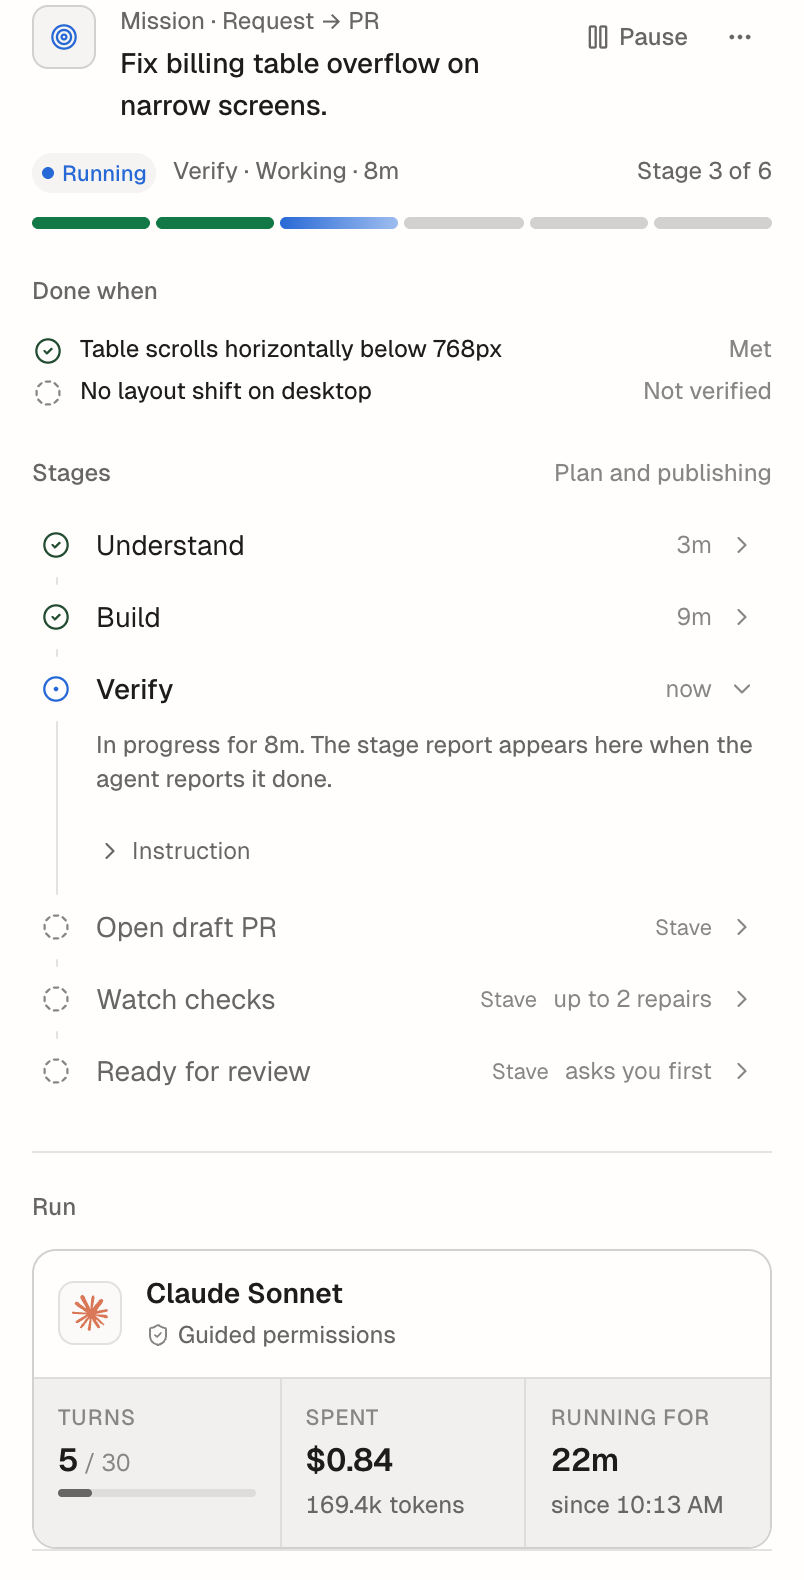
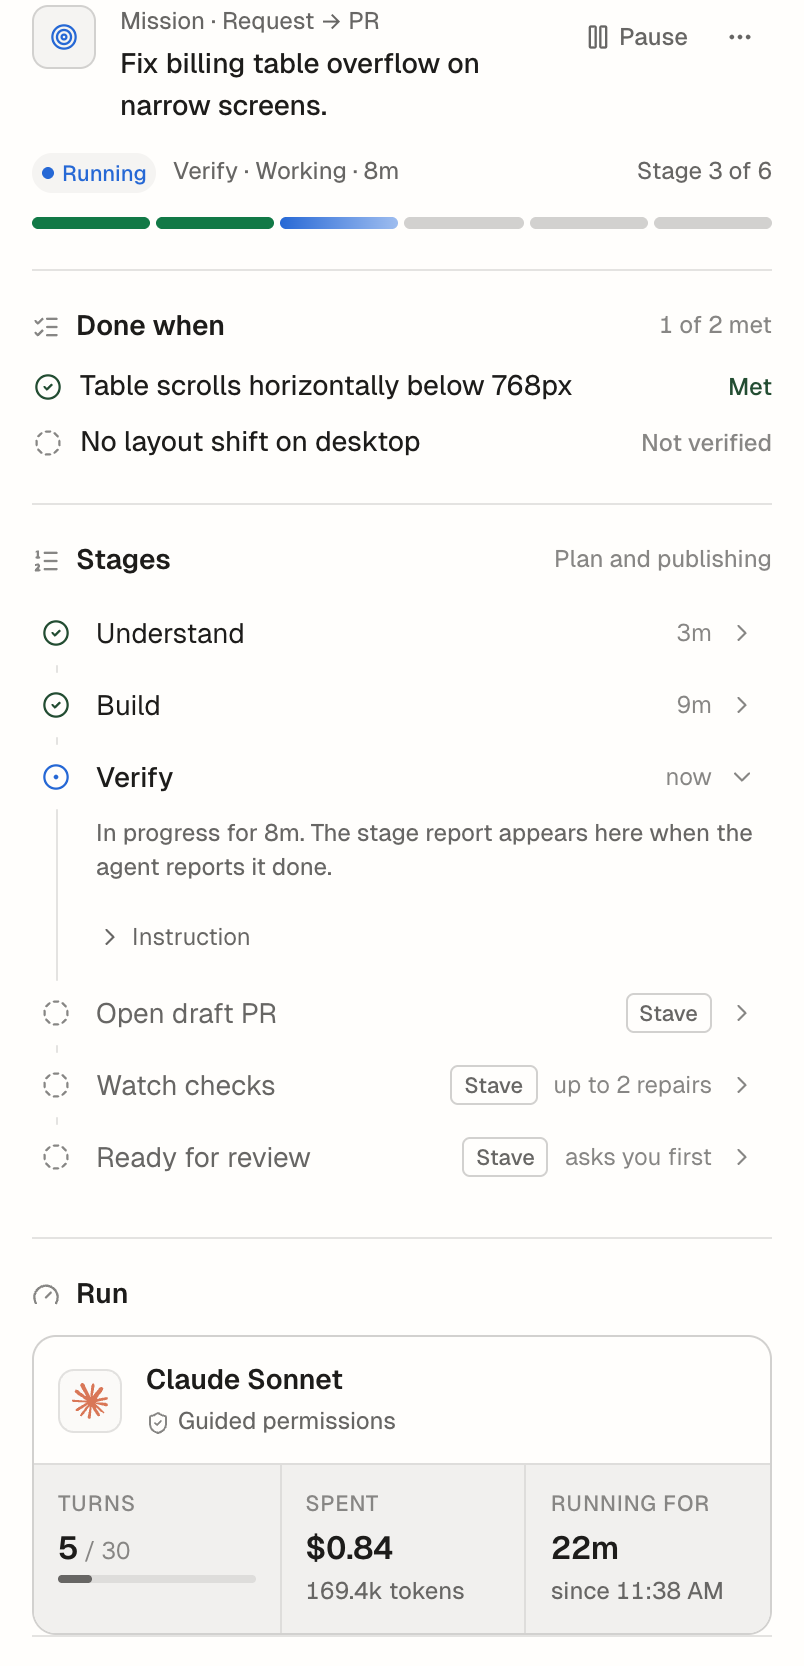
feat(missions): make the Mission panel's sections easier to scan
- Section headings (Done when, Stages, Report, Run, Wake-up) read as
  headings: an icon and a body-size semibold title in the text colour,
  with groups inside a section keeping the small uppercase label below.
  Every section is set off by the same rule.
- Done when says how many criteria are met, colours each status (met,
  not met, not verified) and uses body-size rows; a sign-off moves to a
  line under the list.
- Stages Stave performs itself carry a small Stave chip.
- The report's figures form one strip in the Run card's style, label above
  value, and in the panel leave turns and spend to the Run card, so they no
  longer spill onto a second row.
- Decisions are set off by a rule with the decision in medium weight, and
  what the mission left behind is a bulleted list.

diff --git a/src/components/missions/missions.styles.ts b/src/components/missions/missions.styles.ts
@@ -129,14 +129,17 @@ export const missionStyles = stylex.create({
     fontSize: vars["--ads-font-size-caption"],
     color: vars["--ads-color-text-muted"],
   },
+  // A section of the panel: a heading that reads as one, above its content.
+  // Groups inside a section use `groupLabel`, the small uppercase level below.
   sectionTitle: {
     flex: "1 1 auto",
     margin: 0,
-    fontSize: vars["--ads-font-size-caption"],
+    fontSize: vars["--ads-font-size-body"],
     lineHeight: vars["--ads-line-height-normal"],
-    fontWeight: vars["--ads-font-weight-medium"],
-    color: vars["--ads-color-text-muted"],
+    fontWeight: vars["--ads-font-weight-semibold"],
+    color: vars["--ads-color-text"],
   },
+  sectionIcon: { flex: "0 0 auto", width: 14, height: 14, color: vars["--ads-color-text-subtle"] },
   sectionAside: {
     flex: "0 0 auto",
     fontSize: vars["--ads-font-size-caption"],
@@ -145,18 +148,25 @@ export const missionStyles = stylex.create({
   },
 
   /* Checklist (Done when) -------------------------------------------------- */
+  checkList: { display: "flex", flexDirection: "column", gap: vars["--ads-space-8"], margin: 0, padding: 0, listStyle: "none" },
   check: {
     display: "grid",
     gridTemplateColumns: "16px minmax(0, 1fr) auto",
     alignItems: "baseline",
     columnGap: vars["--ads-space-8"],
-    fontSize: vars["--ads-font-size-caption"],
+    fontSize: vars["--ads-font-size-body"],
     lineHeight: vars["--ads-line-height-normal"],
     color: vars["--ads-color-text"],
   },
   checkMark: { alignSelf: "center", display: "flex", width: 16, justifyContent: "center" },
   checkText: { minWidth: 0, overflowWrap: "anywhere" },
-  checkState: { color: vars["--ads-color-text-subtle"], whiteSpace: "nowrap" },
+  checkState: {
+    fontSize: vars["--ads-font-size-caption"],
+    fontWeight: vars["--ads-font-weight-medium"],
+    color: vars["--ads-color-text-subtle"],
+    whiteSpace: "nowrap",
+  },
+  checkNote: { margin: 0, fontSize: vars["--ads-font-size-caption"], color: vars["--ads-color-text-subtle"] },
 
   /* Facts (key/value) ------------------------------------------------------ */
   facts: {
@@ -192,10 +202,18 @@ export const missionStyles = stylex.create({
   },
   stageTitleCurrent: { fontWeight: vars["--ads-font-weight-medium"] },
   stageTitlePending: { color: vars["--ads-color-text-muted"] },
+  // Marks a stage Stave performs itself, so it reads apart from the agent's.
   stageKind: {
     flex: "0 0 auto",
+    paddingInline: 6,
+    borderRadius: vars["--ads-radius-mark"],
+    borderWidth: vars["--ads-border-width-hairline"],
+    borderStyle: "solid",
+    borderColor: vars["--ads-color-border"],
     fontSize: vars["--ads-font-size-micro"],
-    color: vars["--ads-color-text-subtle"],
+    fontWeight: vars["--ads-font-weight-medium"],
+    lineHeight: "18px",
+    color: vars["--ads-color-text-muted"],
   },
   stageMeta: {
     flex: "0 0 auto",
@@ -224,7 +242,7 @@ export const missionStyles = stylex.create({
     paddingBottom: vars["--ads-space-4"],
     minWidth: 0,
   },
-  stageGroup: { display: "flex", flexDirection: "column", gap: vars["--ads-space-4"], minWidth: 0 },
+  stageGroup: { display: "flex", flexDirection: "column", gap: vars["--ads-space-8"], minWidth: 0 },
   groupLabel: {
     margin: 0,
     fontSize: vars["--ads-font-size-micro"],
@@ -258,8 +276,39 @@ export const missionStyles = stylex.create({
   },
   added: { color: vars["--ads-color-diff-added-text"] },
   removed: { color: vars["--ads-color-diff-removed-text"] },
-  decision: { display: "flex", flexDirection: "column", gap: 1, minWidth: 0 },
-  decisionText: { fontSize: vars["--ads-font-size-caption"], lineHeight: vars["--ads-line-height-normal"], color: vars["--ads-color-text"] },
+  itemList: { display: "flex", flexDirection: "column", gap: vars["--ads-space-8"], margin: 0, padding: 0, listStyle: "none" },
+  // A decision and its reason, set off by a rule so each reads as one item.
+  decision: {
+    display: "flex",
+    flexDirection: "column",
+    gap: 2,
+    minWidth: 0,
+    paddingInlineStart: vars["--ads-space-12"],
+    borderInlineStartWidth: 2,
+    borderInlineStartStyle: "solid",
+    borderInlineStartColor: vars["--ads-color-border"],
+  },
+  decisionText: {
+    fontSize: vars["--ads-font-size-body"],
+    fontWeight: vars["--ads-font-weight-medium"],
+    lineHeight: vars["--ads-line-height-normal"],
+    color: vars["--ads-color-text"],
+  },
+  bulletItem: { display: "grid", gridTemplateColumns: "12px minmax(0, 1fr)", alignItems: "baseline", minWidth: 0 },
+  bullet: {
+    width: 5,
+    height: 5,
+    borderRadius: 999,
+    backgroundColor: vars["--ads-color-text-subtle"],
+    transform: "translateY(-2px)",
+  },
+  bulletText: {
+    minWidth: 0,
+    overflowWrap: "anywhere",
+    fontSize: vars["--ads-font-size-body"],
+    lineHeight: vars["--ads-line-height-normal"],
+    color: vars["--ads-color-text"],
+  },
   decisionReason: { fontSize: vars["--ads-font-size-caption"], lineHeight: vars["--ads-line-height-normal"], color: vars["--ads-color-text-muted"] },
   disclosure: { minWidth: 0 },
   disclosureSummary: {
@@ -319,27 +368,50 @@ export const missionStyles = stylex.create({
     borderColor: vars["--ads-color-border"],
   },
   shareActions: { display: "flex", justifyContent: "flex-end", gap: vars["--ads-space-4"] },
+  // The report's figures, as one strip in the Run card's style: label above value.
   stats: {
     display: "grid",
     gridTemplateColumns: "repeat(auto-fit, minmax(4.5rem, 1fr))",
-    gap: vars["--ads-space-8"],
     margin: 0,
+    borderRadius: vars["--ads-radius-panel"],
+    borderWidth: vars["--ads-border-width-hairline"],
+    borderStyle: "solid",
+    borderColor: vars["--ads-color-border"],
+    backgroundColor: vars["--ads-color-canvas-subtle"],
+    overflow: "hidden",
   },
+  statsThree: { gridTemplateColumns: "repeat(3, minmax(0, 1fr))" },
+  statsFour: { gridTemplateColumns: "repeat(4, minmax(0, 1fr))" },
+  statsFive: { gridTemplateColumns: "repeat(5, minmax(0, 1fr))" },
   statTile: {
     display: "flex",
-    flexDirection: "column-reverse",
-    gap: 2,
-    paddingBlock: vars["--ads-space-8"],
+    flexDirection: "column",
+    gap: 4,
+    paddingBlock: vars["--ads-space-12"],
     paddingInline: vars["--ads-space-12"],
-    borderRadius: vars["--ads-radius-control"],
-    backgroundColor: vars["--ads-color-canvas-subtle"],
     minWidth: 0,
+    borderInlineStartWidth: { default: vars["--ads-border-width-hairline"], ":first-child": 0 },
+    borderInlineStartStyle: "solid",
+    borderInlineStartColor: vars["--ads-color-border-subtle"],
   },
-  statLabel: { fontSize: vars["--ads-font-size-micro"], color: vars["--ads-color-text-muted"] },
+  statLabel: {
+    overflow: "hidden",
+    textOverflow: "ellipsis",
+    whiteSpace: "nowrap",
+    fontSize: vars["--ads-font-size-micro"],
+    fontWeight: vars["--ads-font-weight-medium"],
+    letterSpacing: "0.04em",
+    textTransform: "uppercase",
+    color: vars["--ads-color-text-subtle"],
+  },
   statValue: {
     margin: 0,
-    fontSize: vars["--ads-font-size-body"],
-    fontWeight: vars["--ads-font-weight-medium"],
+    overflow: "hidden",
+    textOverflow: "ellipsis",
+    whiteSpace: "nowrap",
+    fontSize: vars["--ads-font-size-lead"],
+    fontWeight: vars["--ads-font-weight-semibold"],
+    lineHeight: 1.2,
     color: vars["--ads-color-text"],
     fontVariantNumeric: "tabular-nums",
   },

diff --git a/src/components/missions/MissionReportView.tsx b/src/components/missions/MissionReportView.tsx
@@ -8,6 +8,7 @@ import {
   CircleX,
   Copy,
   Ellipsis,
+  FileText,
   GitPullRequestArrow,
   Send,
 } from "lucide-react";
@@ -80,6 +81,14 @@ export function MissionReportView({
   const completedStages = report.stages.filter((stage) => stage.status === "completed").length;
   const duration = formatAge(Date.parse(report.endedAt) - Date.parse(report.startedAt));
   const spent = describeUsageShort(report.usage);
+  // In the Mission panel the Run card already shows turns and spend.
+  const figures: Array<readonly [string, string]> = [
+    ["Duration", duration],
+    ["Stages", `${completedStages}/${report.stages.length}`],
+    ...(standalone ? ([["Turns", String(report.turnCount)]] as const) : []),
+    ["Verified", String(verifiedCount)],
+    ...(standalone && spent ? ([["Spent", spent]] as const) : []),
+  ];
   return (
     <section
       className={sx(styles.section, styles.sectionRoomy, standalone ? null : styles.sectionRule)}
@@ -100,19 +109,21 @@ export function MissionReportView({
         </div>
       ) : (
         <div className={sx(styles.sectionHeader)}>
+          <FileText aria-hidden className={sx(styles.sectionIcon)} />
           <h3 className={sx(styles.sectionTitle)}>Report</h3>
         </div>
       )}
-      <dl className={sx(styles.stats)} aria-label="Mission figures">
-        {(
-          [
-            ["Duration", duration],
-            ["Stages", `${completedStages}/${report.stages.length}`],
-            ["Turns", String(report.turnCount)],
-            ["Verified", String(verifiedCount)],
-            ...(spent ? ([["Spent", spent]] as const) : []),
-          ] as const
-        ).map(([label, value]) => (
+      <dl
+        className={sx(
+          styles.stats,
+          // One row of figures, however many there are.
+          figures.length === 3 && styles.statsThree,
+          figures.length === 4 && styles.statsFour,
+          figures.length === 5 && styles.statsFive,
+        )}
+        aria-label="Mission figures"
+      >
+        {figures.map(([label, value]) => (
           <div key={label} className={sx(styles.statTile)}>
             <dt className={sx(styles.statLabel)}>{label}</dt>
             <dd className={sx(styles.statValue)}>{value}</dd>
@@ -137,7 +148,7 @@ export function MissionReportView({
       {decisions.length > 0 ? (
         <div className={sx(styles.stageGroup)}>
           <p className={sx(styles.groupLabel)}>Decisions</p>
-          <ul className={sx(styles.list)}>
+          <ul className={sx(styles.itemList)}>
             {decisions.map((item) => (
               <li key={item.decision} className={sx(styles.decision)}>
                 <span className={sx(styles.decisionText)}>{item.decision}</span>
@@ -168,10 +179,11 @@ export function MissionReportView({
       {report.leftBehind.length > 0 ? (
         <div className={sx(styles.stageGroup)}>
           <p className={sx(styles.groupLabel)}>Left behind</p>
-          <ul className={sx(styles.list)}>
+          <ul className={sx(styles.itemList)}>
             {report.leftBehind.map((item) => (
-              <li key={item} className={sx(styles.body)}>
-                {item}
+              <li key={item} className={sx(styles.bulletItem)}>
+                <span aria-hidden className={sx(styles.bullet)} />
+                <span className={sx(styles.bulletText)}>{item}</span>
               </li>
             ))}
           </ul>

diff --git a/src/components/missions/MissionPanel.tsx b/src/components/missions/MissionPanel.tsx
@@ -1,5 +1,18 @@
 import { useEffect, useMemo } from "react";
-import { ArrowRight, CircleCheck, CircleDashed, CircleX, Ellipsis, Pause, Play, Target, Users } from "lucide-react";
+import {
+  ArrowRight,
+  CircleCheck,
+  CircleDashed,
+  CircleX,
+  Ellipsis,
+  Gauge,
+  ListChecks,
+  ListOrdered,
+  Pause,
+  Play,
+  Target,
+  Users,
+} from "lucide-react";
 import { Badge } from "@/components/ads/components/Badge";
 import { Button } from "@/components/ads/components/Button";
 import { DropdownMenu } from "@/components/ads/components/DropdownMenu";
@@ -200,14 +213,15 @@ export function MissionDetailView(props: {
       ) : null}
 
       {criteria.length > 0 ? (
-        <section className={sx(styles.section)} aria-label="Done when">
+        <section className={sx(styles.section, styles.sectionRule)} aria-label="Done when">
           <div className={sx(styles.sectionHeader)}>
+            <ListChecks aria-hidden className={sx(styles.sectionIcon)} />
             <h3 className={sx(styles.sectionTitle)}>Done when</h3>
-            {signedOffAt ? (
-              <span className={sx(styles.sectionAside)}>Signed off by you at {formatClock(signedOffAt)}</span>
-            ) : null}
+            <span className={sx(styles.sectionAside)}>
+              {criteria.filter((criterion) => criterion.status === "met").length} of {criteria.length} met
+            </span>
           </div>
-          <ul className={sx(styles.list)}>
+          <ul className={sx(styles.checkList)}>
             {criteria.map((criterion) => {
               const presentation = CRITERION_PRESENTATION[criterion.status];
               const Icon = presentation.icon;
@@ -217,16 +231,18 @@ export function MissionDetailView(props: {
                     <Icon aria-hidden className={sx(styles.icon, presentation.tone)} />
                   </span>
                   <span className={sx(styles.checkText)}>{criterion.text}</span>
-                  <span className={sx(styles.checkState)}>{presentation.label}</span>
+                  <span className={sx(styles.checkState, presentation.tone)}>{presentation.label}</span>
                 </li>
               );
             })}
           </ul>
+          {signedOffAt ? <p className={sx(styles.checkNote)}>Signed off by you at {formatClock(signedOffAt)}</p> : null}
         </section>
       ) : null}
 
-      <section className={sx(styles.section)} aria-label="Stages">
+      <section className={sx(styles.section, styles.sectionRule)} aria-label="Stages">
         <div className={sx(styles.sectionHeader)}>
+          <ListOrdered aria-hidden className={sx(styles.sectionIcon)} />
           <h3 className={sx(styles.sectionTitle)}>Stages</h3>
           <span className={sx(styles.sectionAside)}>{describeCheckIns(mission)}</span>
         </div>
@@ -255,6 +271,7 @@ export function MissionDetailView(props: {
 
       <section className={sx(styles.section, styles.sectionRule)} aria-label="Run">
         <div className={sx(styles.sectionHeader)}>
+          <Gauge aria-hidden className={sx(styles.sectionIcon)} />
           <h3 className={sx(styles.sectionTitle)}>Run</h3>
         </div>
         <MissionRunSummary mission={mission} usage={detail.usage ?? null} active={active} now={now} formatClock={formatClock} />

diff --git a/tests/mission-panel.test.tsx b/tests/mission-panel.test.tsx
@@ -80,6 +80,9 @@ describe("Mission panel", () => {
     expect(html.indexOf("Understand", html.indexOf(">Stages<"))).toBeGreaterThan(-1);
     expect(html).toContain("Signed off by you at");
     expect(html).toContain("Not verified");
+    // Done when says how many criteria are met, and the run shows as a card.
+    expect(html).toMatch(/\d+ of \d+ met/);
+    expect(html).toContain('aria-label="Run"');
     expect(html).toContain("Stage 2 of 6");
     // The timeline is a list with the current stage marked.
     expect(html).toContain('role="list"');

diff --git a/src/components/missions/WakeUpSection.tsx b/src/components/missions/WakeUpSection.tsx
@@ -57,6 +57,7 @@ export function WakeUpSectionView(props: {
   return (
     <section className={sx(styles.section, styles.sectionRule)} aria-label="Wake-up" data-testid="wake-up-section">
       <div className={sx(styles.sectionHeader)}>
+        <AlarmClock aria-hidden className={sx(styles.sectionIcon)} />
         <h3 className={sx(styles.sectionTitle)}>Wake-up</h3>
         <div className={sx(styles.actions)}>
           {confirmingRemove ? (
